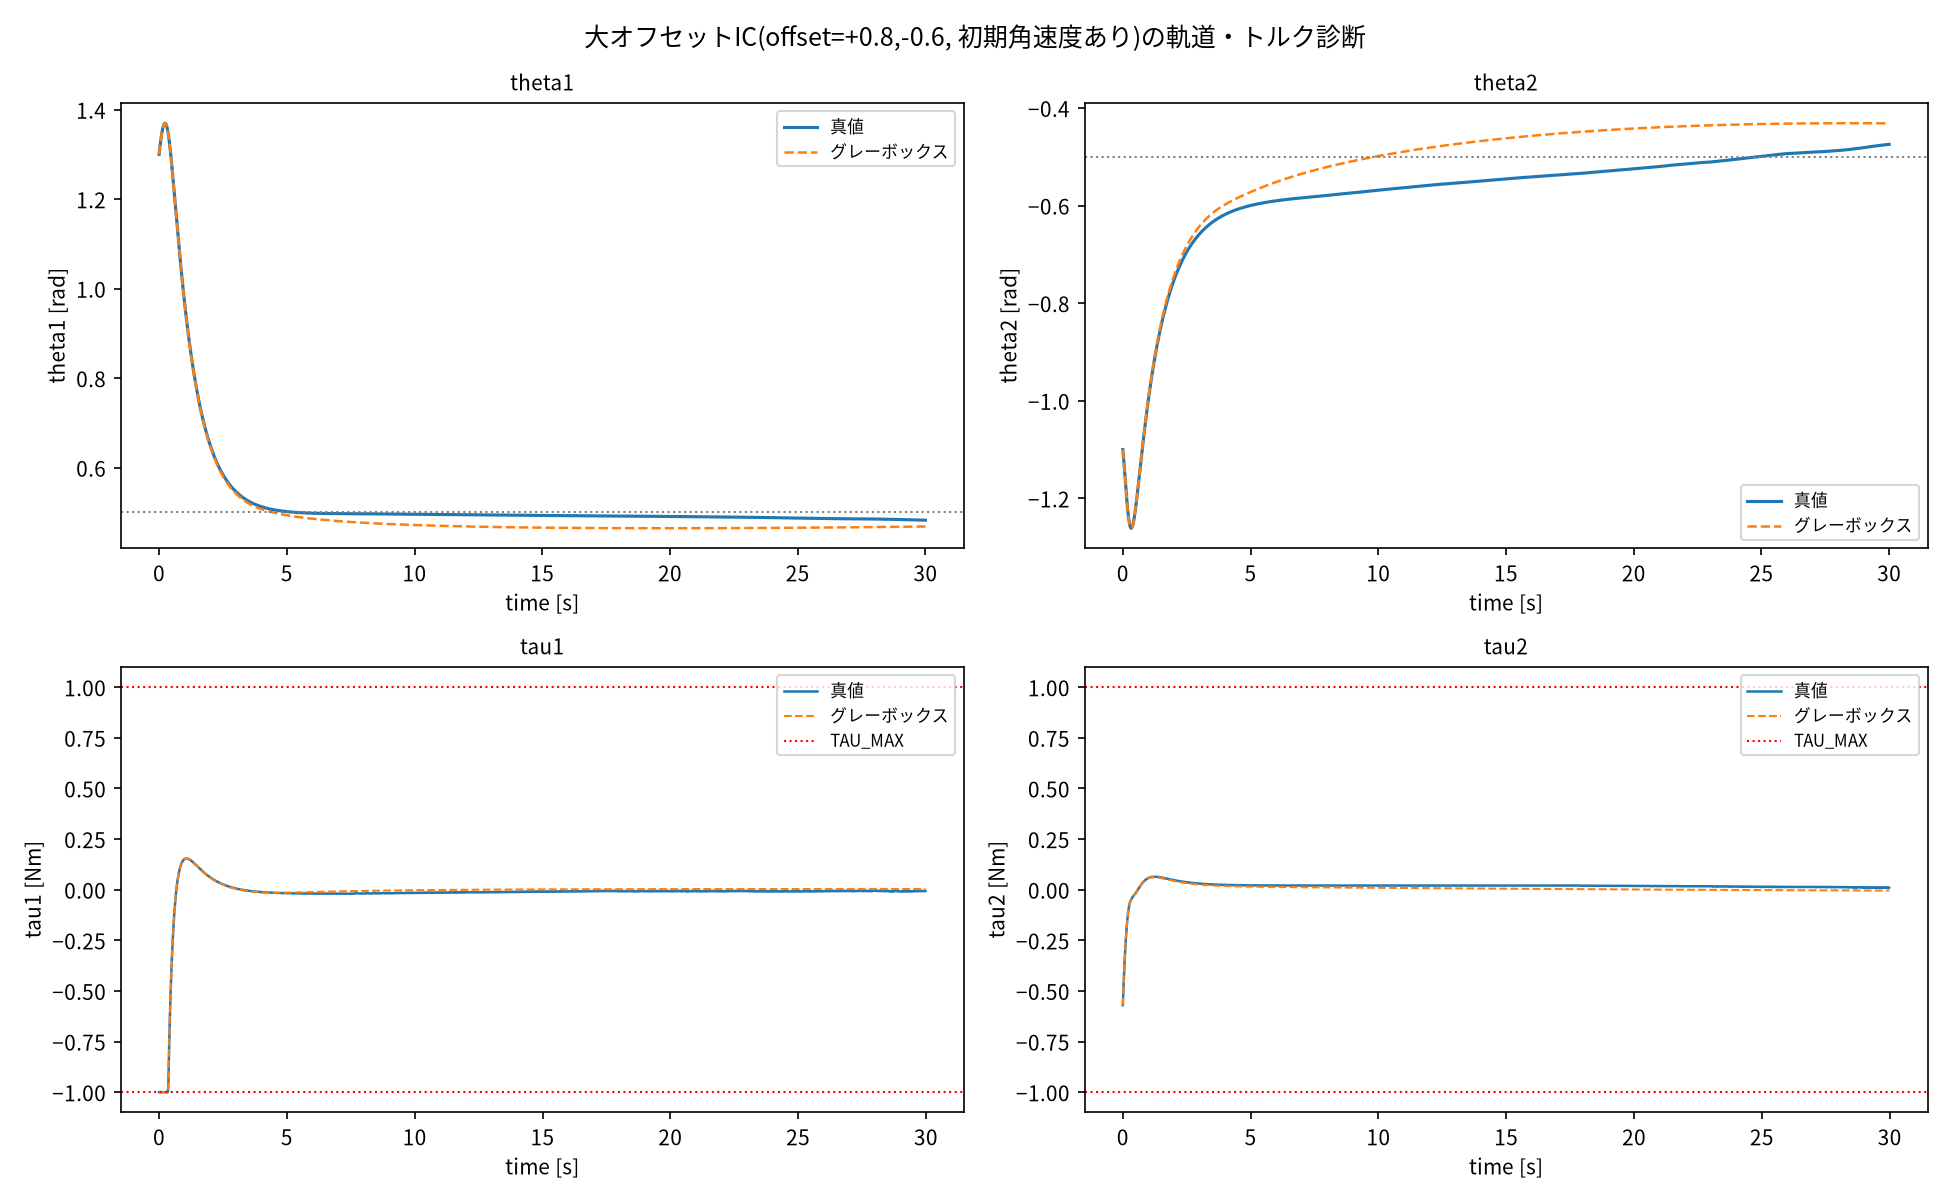
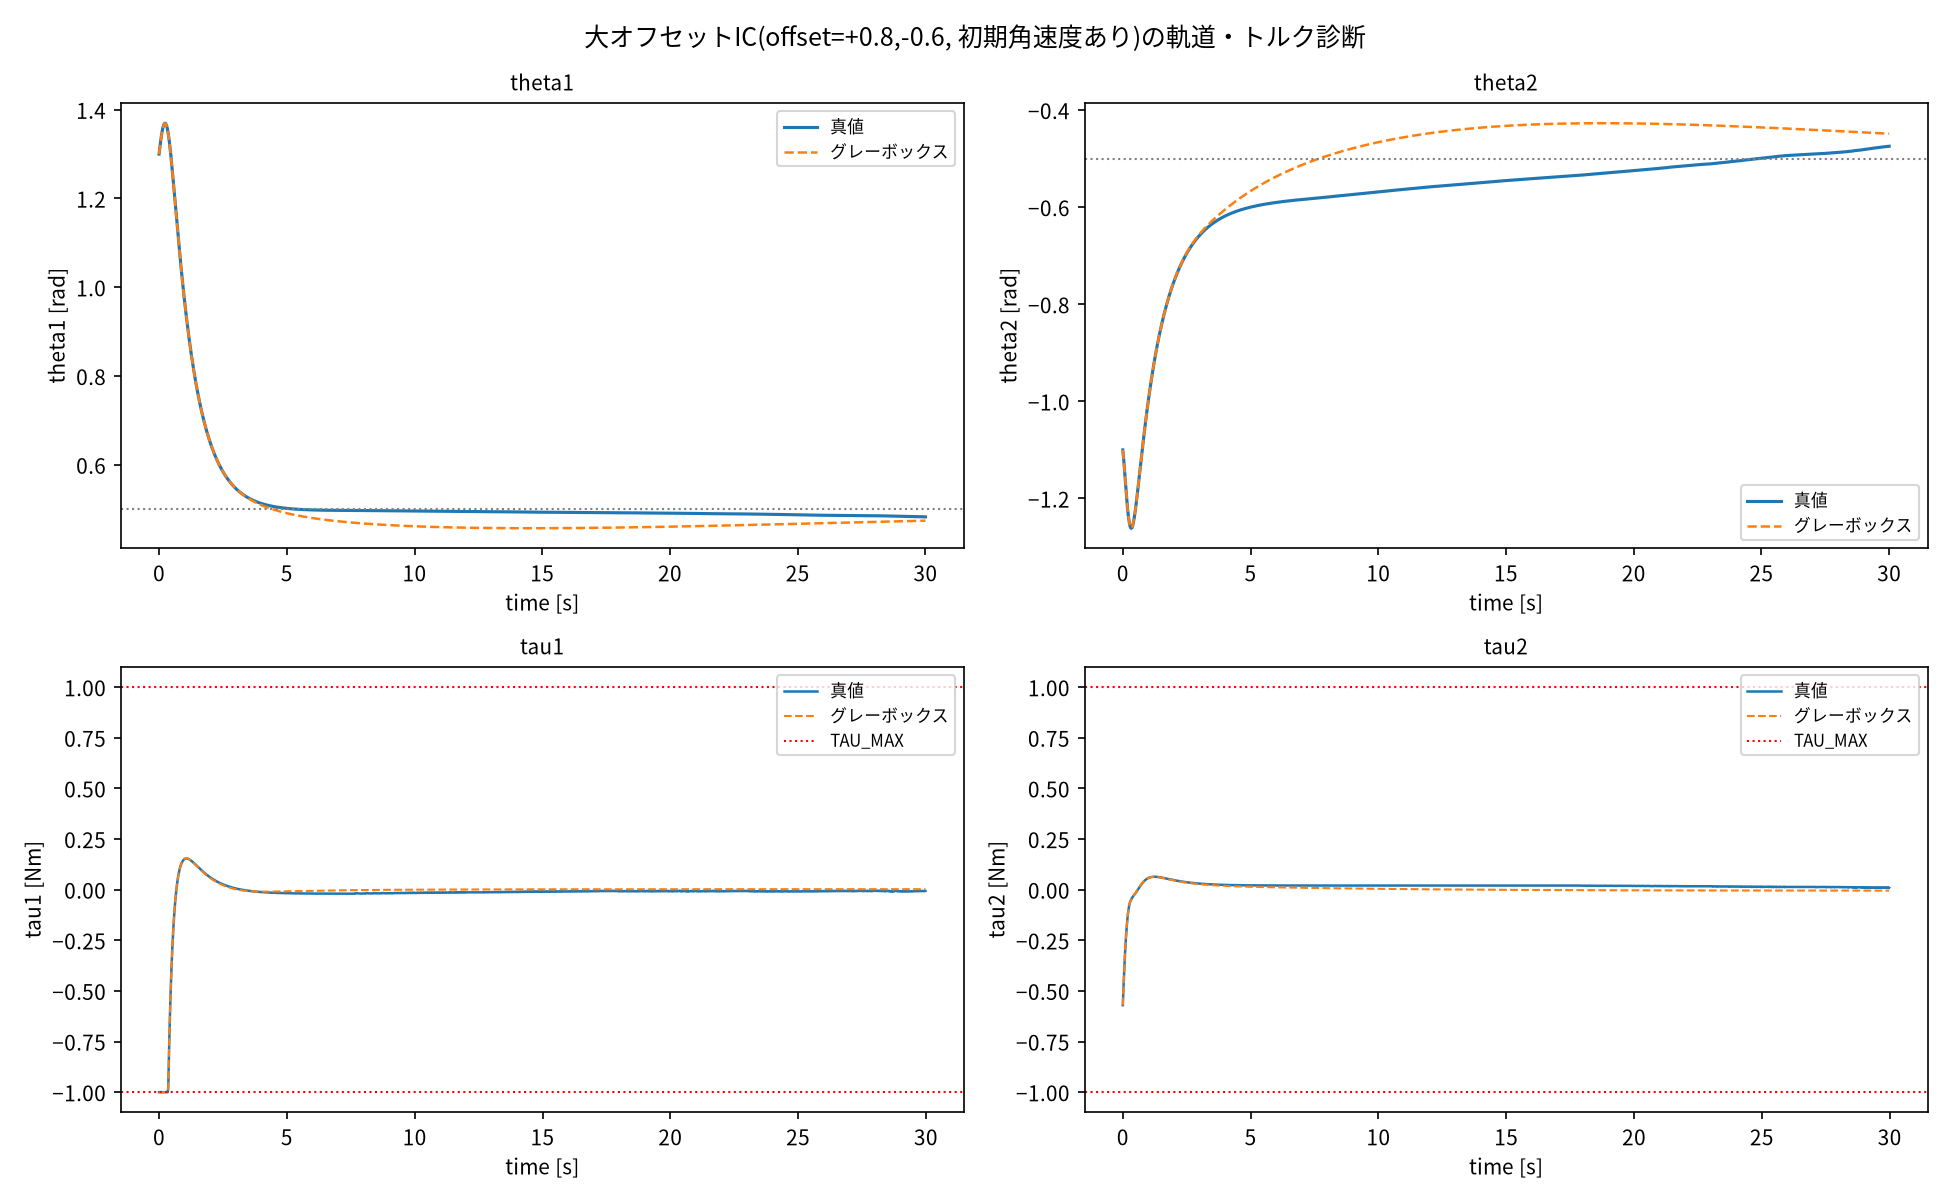
M10: FRICTION_SIGN_EPSを0.03に再調整(バイアス低減とチャタリング抑制のバランス) (#20)
M9(#17)で判明したチャタリング問題への対応としてeps=0.03を試した。

eps=0.05/0.01/0.03の3点比較(整定時間差):
  eps=0.05: 平均差=8.42s 最大差=16.1s
  eps=0.01: 平均差=7.21s 最大差=24.8s
  eps=0.03: 平均差=7.63s 最大差=19.1s

0.03が平均・最大のバランスで最も妥協的だが、最大オフセットの外れ値ICは
依然として改善が乏しい。診断の結果、このICでは真値自体にもjoint1の速度
符号が微小反転する挙動があり、滑らかな残差ネット(tanh近似)では原理的に
再現困難と判断。既知の限界として記録し、eps単独でのこれ以上の調整は
打ち切る。

Claude-Session: https://claude.ai/code/session_01Rvrf6mcbh1UrexApn66z2b

diff --git a/src/model.py b/src/model.py
@@ -50,9 +50,11 @@ def _make_mlp(in_dim: int, out_dim: int, hidden_dim: int, n_hidden_layers: int) 
     return nn.Sequential(*layers)
 
 
-FRICTION_SIGN_EPS = 0.01  # sign(q_dot)の滑らかな近似 tanh(q_dot/eps) のスケール
+FRICTION_SIGN_EPS = 0.03  # sign(q_dot)の滑らかな近似 tanh(q_dot/eps) のスケール
 # M8 (#15): 0.05ではPTP収束中の|q_dot|<0.05領域でtanh特徴量がsign(q_dot)から
 # 乖離し、joint1の摩擦推定バイアスが残っていたため0.01に縮小。
+# M10 (#19): しかし0.01は近傍速度の微小変化に過敏で、残差ネットの摩擦予測が
+# チャタリング(高周波振動)し一部ICで整定を悪化させたため0.03に再調整。
 
 
 def friction_sign_features(state: torch.Tensor) -> torch.Tensor:

diff --git a/README.md b/README.md
@@ -94,6 +94,18 @@ pip install -r requirements.txt
   joint1 0.013→0.008、joint2 0.005→0.001)、負オフセット側のICで整定時間の
   差が大幅縮小。ただし最大オフセットの外れ値ICは改善せず(むしろ悪化)、
   トルク飽和領域の問題は別要因として残る(#16で継続調査)。
+- **M9** (完了, #17): M8の外れ値ICを診断した結果、トルク飽和の継続時間・
+  解除タイミングは真値・グレーボックスで完全一致しており、当初の仮説
+  (トルク飽和領域特有の問題)は否定された。真の原因は`FRICTION_SIGN_EPS=0.01`
+  が近傍速度の微小変化に過敏で、残差ネットの摩擦予測がチャタリング(高周波
+  振動)していること(スライディングモード制御のバウンダリレイヤー問題と同種)。
+- **M10** (完了, #19): `FRICTION_SIGN_EPS`を0.03に再調整し、バイアス低減と
+  チャタリング抑制のバランスを検証。eps=0.05/0.01/0.03の3点比較で、
+  0.03が整定時間差の平均・最大の双方でバランスの良い妥協点と判明したが、
+  最大オフセットの外れ値ICは依然として改善が乏しい。診断の結果、この
+  ICでは真値自体にもjoint1の速度符号が微小反転する(スティックスリップ的な)
+  挙動があり、滑らかな残差ネットでは原理的に再現しづらいことが分かった。
+  既知の限界として記録し、これ以上のeps単独調整は打ち切る。
 
 ## ディレクトリ構成
 
